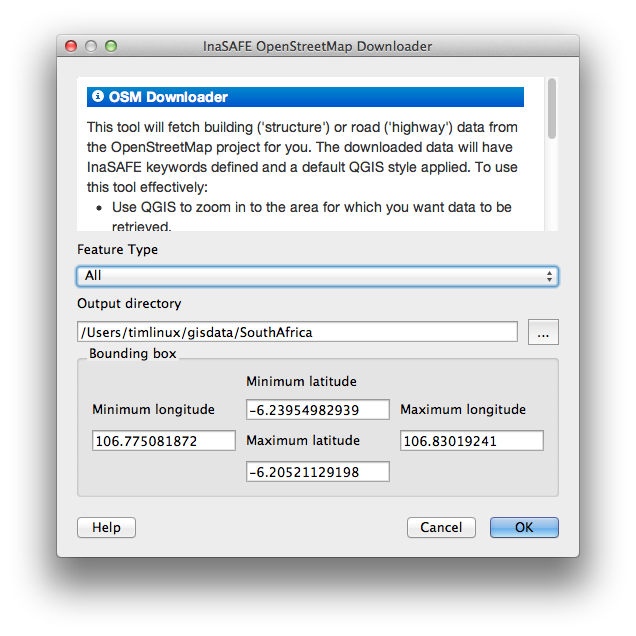
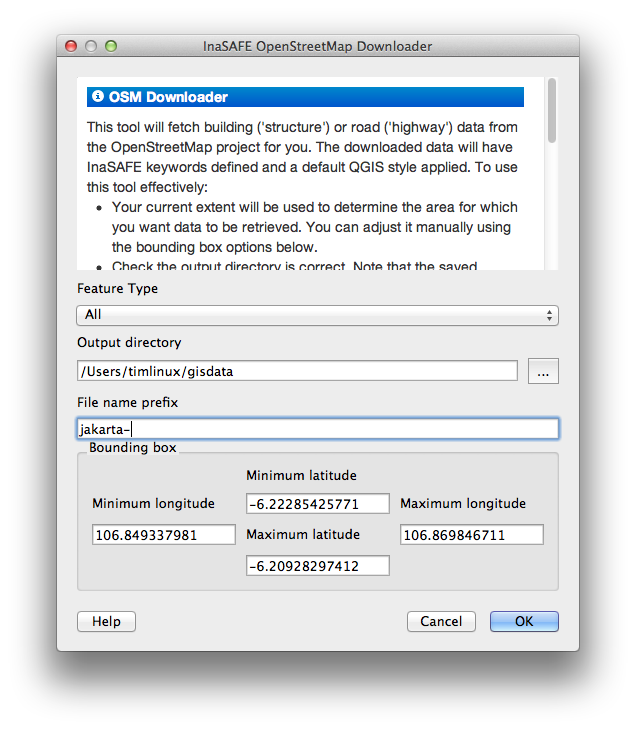
Updates for osm downloader docs

diff --git a/docs/source/user-docs/application-help/openstreetmap_downloader.rst b/docs/source/user-docs/application-help/openstreetmap_downloader.rst
@@ -29,9 +29,16 @@ city level and below should work well.
 To use this tool effectively:
 
 * Use QGIS to zoom in to the area for which you want building data to be
-  retrieved.
+  retrieved. For fine-grained control, you can set the bounding box manually
+  in the area provided at the bottom of the dialog.
 * Check the output directory is correct. Note that the saved datasets
   will be called buildings.shp and roads.shp (and their associated files).
+* By default simple file names will be used (e.g. roads.shp, buildings.shp).
+  If you wish you can specify a prefix to add in front of this default name.
+  For example using a prefix of 'padang-' will cause the downloaded files to be
+  saved as 'padang-roads.shp' and 'padang-buildings.shp'. Note that the only
+  allowed prefix characters are A-Z, a-z, 0-9 and the characters '-' and '_'.
+  You can leave this blank if you prefer.
 * Press the :guilabel:`OK Button` and wait for the data to be retrieved.
 
 
